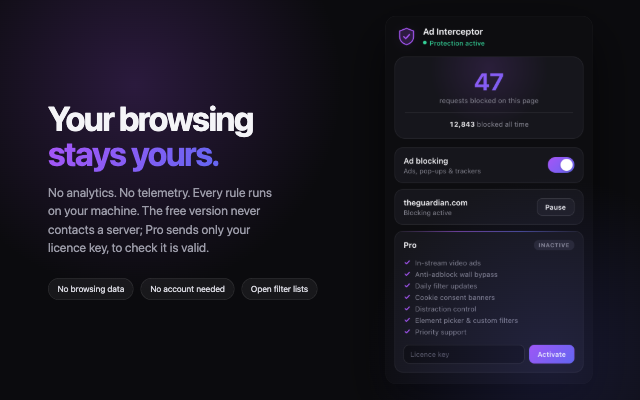
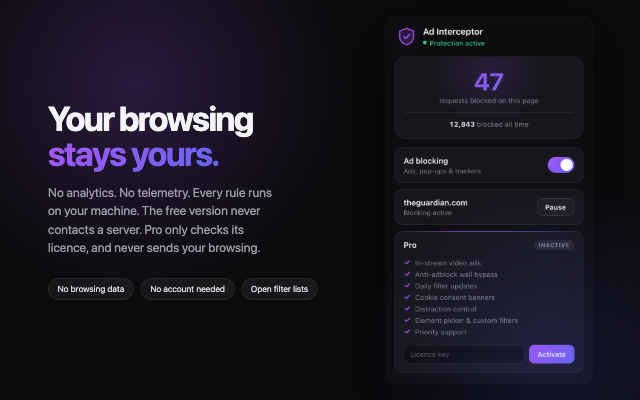
docs(privacy): disclose the installation ID, and widen the single purpose
The Pro build sends a random installation ID with every licence request
(license.js installId, stored server-side in `activations` to enforce the
device limit). The live privacy policy said Pro sends "your licence key, and
nothing else", and the v3.3 description and slide 4 repeated it. Corrected in
all three, and in the storage justification, which said the key was the only
thing to leave the device.

Single purpose said "blocking advertising … It does nothing else". v3.3 also
blocks cookie notices and annoyances, so that sentence would be false against
the package. Reworded as one purpose — removing unwanted page content — with
each feature tied to it.

The declarativeNetRequest justification said all rules are static bundled
files. Pro also installs dynamic rules: daily filter updates from the licence
server, and user-written rules. Now stated.

Changed region(s): [[0.125, 0.54, 0.4062, 0.63]]

diff --git a/store-listing/privacy-policy.html b/store-listing/privacy-policy.html
@@ -274,12 +274,12 @@
   <dl class="facts">
     <div class="fact"><dt>Effective</dt><dd>August 29, 2026</dd></div>
     <div class="fact"><dt>Applies to</dt><dd>Ad Interceptor v3.0+</dd></div>
-    <div class="fact"><dt>Data collected</dt><dd>None (free) &middot; Licence key (Pro)</dd></div>
+    <div class="fact"><dt>Data collected</dt><dd>None (free) &middot; Licence key and a random installation ID (Pro)</dd></div>
   </dl>
 
   <div class="tldr">
     <span class="tldr-mark">TL;DR</span>
-    <p>The free version collects nothing and contacts no server &mdash; every rule ships inside the extension and runs inside your own browser. If you buy Pro, one thing changes: your licence key is sent to our server to check that it is valid, and to download updated filter rules. That is the only network request this extension ever makes, and it never carries anything about your browsing.</p>
+    <p>The free version collects nothing and contacts no server &mdash; every rule ships inside the extension and runs inside your own browser. If you buy Pro, one thing changes: your licence key, with a random installation ID, is sent to our server to check that it is valid, and to download updated filter rules. Those are the only network requests this extension ever makes, and they never carry anything about your browsing.</p>
   </div>
 
   <section>
@@ -297,12 +297,13 @@
       <li>The only data stored is your own settings &mdash; the on/off switch, the sites you have paused, and a running count of blocked requests &mdash; held in Chrome&rsquo;s <code>storage</code>, under your own Google account if Chrome Sync is enabled, never accessible to us.</li>
     </ul>
 
-    <p><strong>Pro version: your licence key, and nothing else.</strong></p>
+    <p><strong>Pro version: your licence key and a random installation ID, and nothing else.</strong></p>
     <ul>
       <li>When you activate Pro, and roughly once a day afterwards, the extension sends your licence key to our server so we can confirm it is still valid. The response says only whether the licence is active and when it expires.</li>
       <li>The same key authenticates a daily download of updated filter rules.</li>
-      <li>These requests contain your licence key and the extension version. They do not contain, and cannot be used to derive, the sites you visit, what was blocked, or anything else about your browsing.</li>
-      <li>We use the key solely to check entitlement. We do not sell it, share it, or use it to build a profile.</li>
+      <li>These requests contain your licence key, the extension version, and an installation ID. The installation ID is a random value the extension generates the first time you activate Pro on a browser; it is not derived from you, your device or your browser, and it is not shared between your devices. We store it with your licence, together with the version and when it was first and last seen, only to count how many browsers a licence is active on so the device limit can be enforced.</li>
+      <li>These requests do not contain, and cannot be used to derive, the sites you visit, what was blocked, or anything else about your browsing.</li>
+      <li>We use the key and installation ID solely to check entitlement. We do not sell it, share it, or use it to build a profile.</li>
     </ul>
   </section>
 

diff --git a/store-listing/permission-justifications.md b/store-listing/permission-justifications.md
@@ -10,11 +10,14 @@ the most common cause of rejection.
 
 ## Single purpose description
 
-> Ad Interceptor is an ad blocker. It has one function: blocking advertising
-> and the trackers that come with it. It stops ad and tracker network requests
-> before they load, and hides the empty containers those blocked ads leave
-> behind on the page. It does nothing else — no other feature, no unrelated
-> functionality.
+> Ad Interceptor is a content blocker. Its single purpose is removing unwanted
+> content from the pages a user visits: advertising, the trackers that come
+> with it, and — in the optional Pro version — cookie-consent notices and
+> other on-page annoyances such as newsletter pop-ups. It stops those network
+> requests before they load, and hides the elements left behind on the page.
+> Every feature serves that purpose: the element picker and custom filters let
+> the user block content the lists miss, and the per-site pause lets them turn
+> blocking off where it breaks a page. Nothing is unrelated to blocking.
 
 Deliberately NOT keyword-optimised. This field is not indexed for store
 search; it is a policy statement a reviewer reads to check the extension does
@@ -34,12 +37,15 @@ else is bundled in.
 
 ## Permission: declarativeNetRequest / declarativeNetRequestWithHostAccess
 
-> The core blocking mechanism. All rules are static JSON files bundled
-> in the package (rules/*.json, ~107,000 rules generated from EasyList
-> and EasyPrivacy) and evaluated by Chrome itself — the extension's own
-> code never inspects network traffic. declarativeNetRequestWithHostAccess
-> is required because those rules must apply across the full breadth of
-> host_permissions above.
+> The core blocking mechanism. The free rules are static JSON files bundled
+> in the package (rules/*.json, ~109,000 rules generated from EasyList
+> and EasyPrivacy), and all rules are evaluated by Chrome itself — the
+> extension's own code never inspects network traffic. Pro users also get
+> dynamic rules: filter updates downloaded daily from our licence server
+> (declarativeNetRequest rule data only, never code), and any blocking rules
+> the user writes themselves. declarativeNetRequestWithHostAccess is required
+> because these rules must apply across the full breadth of host_permissions
+> above.
 
 ## Permission: declarativeNetRequestFeedback
 
@@ -68,9 +74,11 @@ else is bundled in.
 >   user-written rule is a CSS selector or a domain the user typed or
 >   picked on screen; it is their input, not a record of their browsing.
 >
-> None of this leaves the device except the licence key, which is covered
-> below. There is no identifier of any kind in the free version, and nothing
-> stored here is derived from the user, their browsing, or their device.
+> None of this leaves the device except the licence key and the installation
+> identifier, which are sent together to the licence server (see the data
+> disclosure). The identifier is a random UUID; it is not derived from the
+> user, their browsing, or their device. There is no identifier of any kind in
+> the free version.
 
 **Keep this list exact.** Reviewers compare a justification against what the
 code actually writes, and an undeclared key reads as concealment rather than

diff --git a/store-listing/description.md b/store-listing/description.md
@@ -99,7 +99,7 @@ Some popular ad blockers ship an allowlist that lets certain ads through by defa
 • No analytics and no telemetry of any kind
 • Your browsing history is never collected, transmitted or stored
 • The free version makes no network requests at all
-• Pro sends exactly one thing: your licence key, about once a day, to check it is still valid and to fetch filter updates. Never anything about the sites you visit
+• Pro sends only your licence key and a random installation ID, about once a day, to check the licence is valid and to fetch filter updates. Never anything about the sites you visit
 
 Full privacy policy: https://ad-interceptor.pages.dev/privacy-policy
 
@@ -148,7 +148,7 @@ Questions or a site that isn't blocking properly? thenightwatchcaptain@gmail.com
 The Pro section now lives inside the paste markers above, rewritten to match
 what v3.3 actually ships (cookies, distractions, picker, custom filters,
 priority support were added after this draft). If a future release turns
-`PRO_ENABLED` off again, the Pro section AND the "Pro sends exactly one thing"
+`PRO_ENABLED` off again, the Pro section AND the "Pro sends only your licence key"
 privacy bullet must come out together, in the same release.
 
 **Ad Interceptor Pro**
